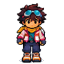
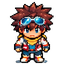
Rook's new sprite sheet: idle and walk in 4 directions, and swimming on water (Hydro-skiff)

diff --git a/src/sections.js b/src/sections.js
@@ -138,7 +138,8 @@ function drawSec(){const s=SWORLD[G.sec.id],p=SM?SM.t/SM.n:0,jp=SJ?SJ.t/SEC_JUMP
  txt('◆'+G.shards,128,134,'#fff')}
 // 16x24 figure standing on its tile (feet on the tile's bottom edge)
 function secDrawChar(art,f,x,y,step,me){ctx.fillStyle='rgba(20,10,20,0.35)';ctx.beginPath();ctx.ellipse(x+8,y+15,6,2,0,0,6.283);ctx.fill();
- const k=art+'_'+f,b=step?1:0,X=Math.round(x-4),Y=Math.round(y-9-b);if(!(me&&step&&dchar(k+'_w'+(1+(stepc&1)),X,Y,24,24))&&!dchar(k,X,Y,24,24)&&!dchar(art,X,Y,24,24))kid(Math.round(x+2),Math.round(y-2),f==='left',f==='up',step)}
+ const k=art+'_'+f,b=step?1:0,X=Math.round(x-4),Y=Math.round(y-9-b);if(me&&G.sec&&secTile(SWORLD[G.sec.id],G.sec.x,G.sec.y)==='~'&&dchar(art+'_swim_'+f+((frame>>4)&1?'_w1':''),X,Y+4,24,24)){}   // on water (Hydro-skiff): swimming
+ else if(!(me&&step&&dchar(k+'_w'+(1+(stepc&1)),X,Y,24,24))&&!dchar(k,X,Y,24,24)&&!dchar(art,X,Y,24,24))kid(Math.round(x+2),Math.round(y-2),f==='left',f==='up',step)}
 function drawSecDebug(s,cx,cy){ctx.save();for(let y=0;y<s.tiles[1];y++)for(let x=0;x<s.tiles[0];x++){const c=s.rows[y][x],X=x*16-cx,Y=y*16-cy;if(X<-16||Y<-16||X>160||Y>144)continue;
   if(c==='#'){ctx.fillStyle='rgba(255,0,0,0.33)';ctx.fillRect(X,Y,16,16)}else if(c===','){ctx.fillStyle='rgba(0,255,0,0.25)';ctx.fillRect(X,Y,16,16)}
   ctx.strokeStyle='rgba(255,0,255,0.35)';ctx.lineWidth=0.5;ctx.strokeRect(X+0.25,Y+0.25,15.5,15.5)}
